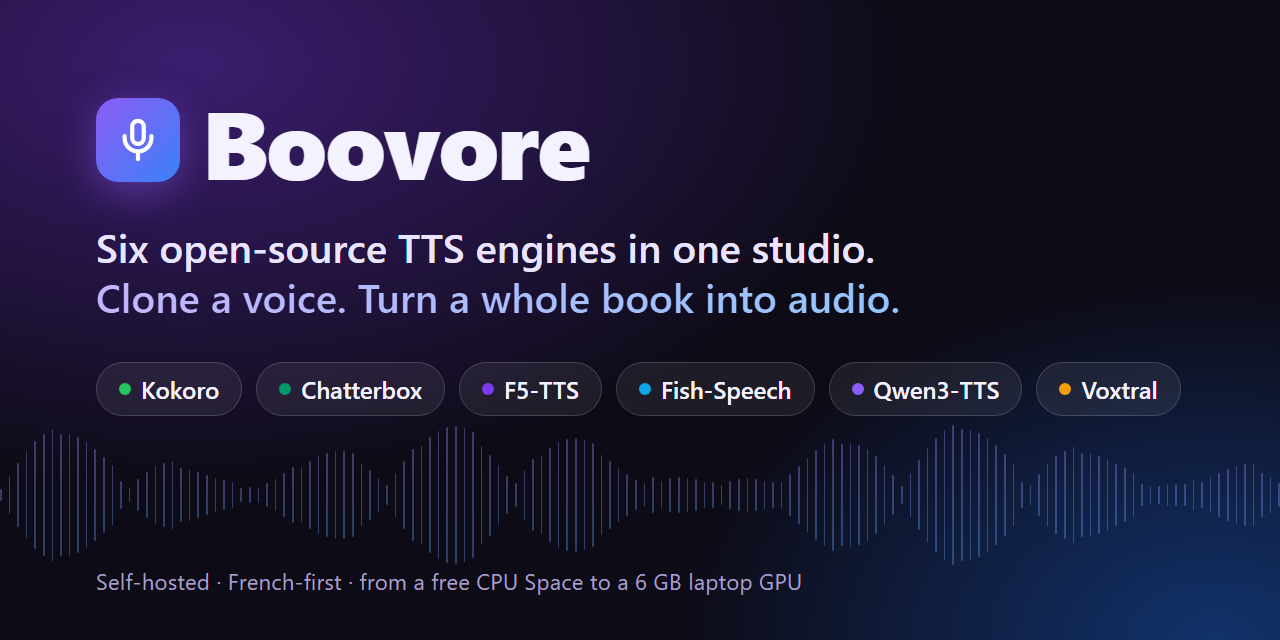
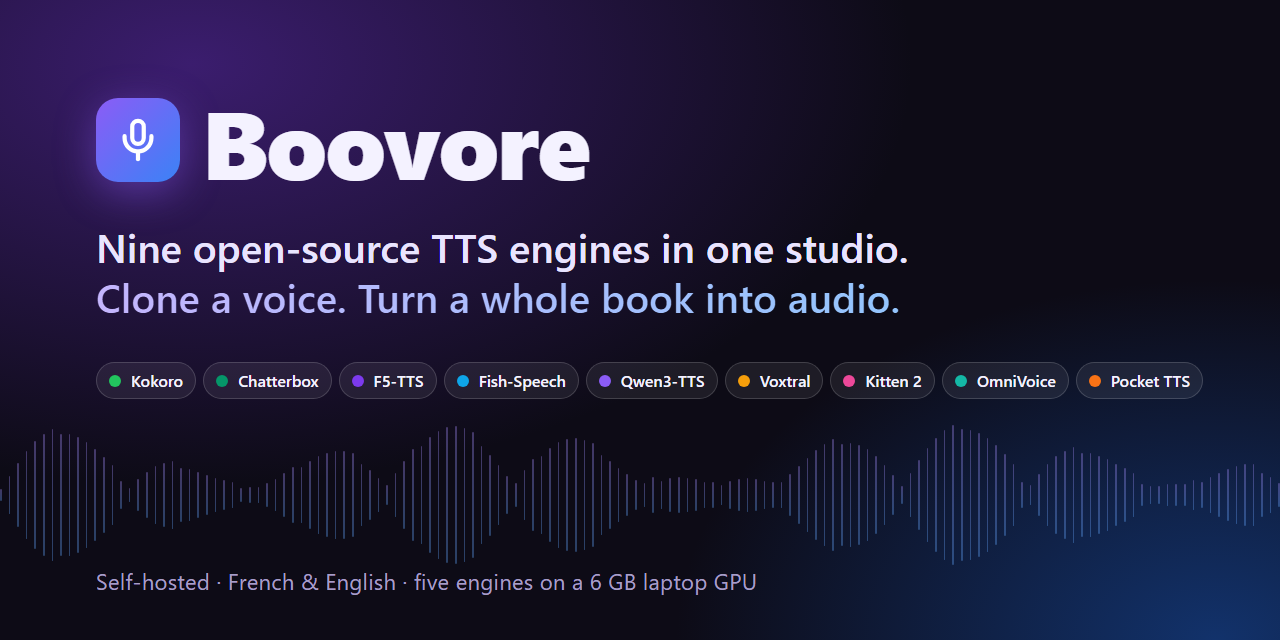
docs: nine engines, five on a 6 GB laptop, licenses and NOTICE
- engines table: Kitten TTS 2, OmniVoice, Pocket TTS with weights licenses
- Windows laptop section: Kokoro + Pocket in the venv, Kitten and OmniVoice
  setup scripts, how Qwen3 and OmniVoice share the GPU
- settings for the new servers, API rows, project layout
- fix the Qwen3 curl example: /generate answers JSON (audio_b64), not WAV
- NOTICE: Stellon Labs attribution (Kitten), CC-BY-NC (OmniVoice),
  CC-BY-4.0 (Pocket TTS); banner with nine engines

Changed region(s): [[0.0625, 0.5625, 0.9375, 0.625], [0.0625, 0.3438, 0.7188, 0.4375], [0.2188, 0.875, 0.625, 0.9375]]

diff --git a/.github/README.md b/.github/README.md
@@ -1,5 +1,5 @@
 <p align="center">
-  <img src="banner.png" alt="Boovore — six open-source TTS engines in one studio" width="100%">
+  <img src="banner.png" alt="Boovore — nine open-source TTS engines in one studio" width="100%">
 </p>
 
 <p align="center">
@@ -14,7 +14,7 @@
   <b>English</b> · <a href="../README.fr.md">Français</a>
 </p>
 
-**Boovore** is a self-hosted text-to-speech studio. It puts six open-source TTS engines behind one web page, so you can hear the same sentence in every engine, clone a voice from a short clip, and turn a `.txt`, `.pdf` or `.epub` into a chaptered audiobook.
+**Boovore** is a self-hosted text-to-speech studio. It puts nine open-source TTS engines behind one web page, so you can hear the same sentence in every engine, clone a voice from a short clip, and turn a `.txt`, `.pdf` or `.epub` into a chaptered audiobook.
 
 It is French-first (good French voices are hard to find in open-source TTS) and runs on whatever you have: a free CPU Space, a 6 GB laptop GPU, or a 24 GB server.
 
@@ -26,10 +26,10 @@ It is French-first (good French voices are hard to find in open-source TTS) and 
 
 ## Why Boovore?
 
-- **Compare engines in one click.** Same text, same page, six engines. You find the right voice by listening instead of installing six repos.
+- **Compare engines in one click.** Same text, same page, nine engines. You find the right voice by listening instead of installing nine repos.
 - **Books, not just sentences.** Import a `.txt`, `.pdf` or `.epub`, let Boovore detect the chapters, generate them in batch, then download each chapter or merge everything into one WAV.
-- **Voice cloning and voice design.** Clone a voice from a few seconds of audio (Chatterbox, F5-TTS, Fish-Speech, Qwen3, Voxtral), or describe a voice in words and let Qwen3 Voice Design create it.
-- **Runs on modest hardware.** The `ENABLED_ENGINES` switch loads only what your machine can hold. Qwen3 runs on a 6 GB RTX 2060 laptop.
+- **Voice cloning and voice design.** Clone a voice from a few seconds of audio (OmniVoice, Chatterbox, F5-TTS, Fish-Speech, Qwen3, Voxtral, Kitten), describe a voice and let Qwen3 Voice Design or OmniVoice create it, or add a sigh or a laugh with Kitten's emotion tags.
+- **Runs on modest hardware.** The `ENABLED_ENGINES` switch loads only what your machine can hold. A 6 GB RTX 2060 laptop runs five engines: Qwen3 and OmniVoice take turns on the GPU, Kokoro, Pocket TTS and Kitten use the CPU.
 - **One plain web page.** The UI is a single HTML file in vanilla JS with no build step, and the backend is a single FastAPI file with a documented HTTP API.
 
 ## Engines
@@ -42,6 +42,9 @@ It is French-first (good French voices are hard to find in open-source TTS) and 
 | **[Fish-Speech 1.5](https://github.com/fishaudio/fish-speech)** | Multilingual cloning | ✅ | CC-BY-NC-SA-4.0 | ❌ |
 | **[Qwen3-TTS](https://huggingface.co/Qwen/Qwen3-TTS-12Hz-1.7B-Base)** 0.6B / 1.7B | Three modes (clone, built-in speakers, **Voice Design** from a text description), streaming with CUDA graphs | ✅ | Apache-2.0 | ✅ |
 | **[Voxtral 4B](https://huggingface.co/mistralai/Voxtral-4B-TTS-2603)** (Mistral AI) | French-first cloning. In Mistral's own human evaluation, listeners preferred it over ElevenLabs Flash v2.5 in [68.4% of zero-shot cloning comparisons](https://mistral.ai/news/voxtral-tts/) | ✅ | CC-BY-NC-4.0 | ❌ |
+| **[Kitten TTS 2](https://huggingface.co/KittenML/kitten-tts-2)** (KittenML) | 47 voices and emotion tags (`[sad]`, `<sigh>`, `<laugh>`, `(((emphasis)))`); French through one built-in voice or cloning. Runs on CPU, but slowly (about 0.1× real time on a 6-core laptop) | ✅ | [Stellon Labs Community License](https://huggingface.co/KittenML/kitten-tts-2/blob/main/LICENSE.md) | ⚠ under US$1M revenue, after registering |
+| **[OmniVoice](https://huggingface.co/k2-fsa/OmniVoice)** (k2-fsa) | Best French scores on Hugging Face's Open TTS Leaderboard (4.7 % word errors, Oct 2026), #2 for English cloning; cloning and voice design (gender, age, pitch, accent). About 2 GB of VRAM | ✅ | CC-BY-NC | ❌ |
+| **[Pocket TTS](https://github.com/kyutai-labs/pocket-tts)** (Kyutai) | Fast on CPU: 2.3× real time in French on a 6-core laptop, one thread. 7 languages, 27 voices | ✅ (gated weights) | CC-BY-4.0 | ✅ |
 
 Boovore's own code is MIT. Each engine's **model weights** keep their own license (column above). Check it before you publish or sell audio.
 
@@ -62,7 +65,7 @@ docker run -p 7860:7860 -e ENABLED_ENGINES=kokoro,f5 boovore
 
 The first request to each engine downloads its model. Kokoro is fast on CPU. F5-TTS works but is slow there: about 3 minutes for one short sentence on a 6-core laptop CPU.
 
-### 3. GPU server (all six engines)
+### 3. GPU server (all engines)
 
 Tested on an RTX 3090 (24 GB) rented on Vast.ai, Python 3.12 with CUDA 12.8.
 
@@ -101,20 +104,32 @@ python3 voxtral_server.py            # --status / --stop
 python3 make_narrator_reference.py   # optional: build a narrator reference WAV with Qwen3
 ```
 
+**Kitten TTS 2 (optional).** It needs transformers 5.x while Qwen3-TTS pins 4.57, so it runs in its own environment as a small server on port 7862 that Boovore calls:
+
+```bash
+python3 -m venv /root/kitten-env
+/root/kitten-env/bin/pip install kittenml fastapi uvicorn python-multipart
+nohup /root/kitten-env/bin/python kitten_server.py >> kitten.log 2>&1 &   # KITTEN_DEVICE=cuda to use the GPU
+```
+
 Open the UI through an SSH tunnel: `ssh -p <PORT> root@<HOST> -L 7860:localhost:7860 -N`, then go to http://localhost:7860.
 
 </details>
 
-### 4. Windows laptop with a 6 GB GPU (Qwen3 only)
+### 4. Windows laptop with a 6 GB GPU (five engines)
 
-Create a `venv\` with PyTorch (CUDA) and `faster-qwen3-tts`, then double-click **`start_qwen3_local.bat`**. It opens http://localhost:7860 once the model is loaded. It was tested with Python 3.12, torch 2.7.1+cu118 and faster-qwen3-tts 0.2.4 on an RTX 2060 laptop.
+Create a `venv\` with PyTorch (CUDA), `faster-qwen3-tts`, `kokoro` and `pocket-tts`, then double-click **`start_qwen3_local.bat`**. It opens http://localhost:7860 once the model is loaded. It was tested with Python 3.12, torch 2.7.1+cu118 and faster-qwen3-tts 0.2.4 on an RTX 2060 laptop.
+
+To add Kitten TTS 2, run **`setup_kitten.bat`** once. It builds a separate environment in `%LOCALAPPDATA%\boovore\kitten-env` (outside the project folder, so cloud sync skips 1.5 GB). After that, `start_qwen3_local.bat` also starts Kitten on the CPU, leaving the GPU to Qwen3. Kitten opens in its own minimized window: close it too when you stop Boovore.
+
+To add OmniVoice, run **`setup_omnivoice.bat`** once (or, if OmniVoice is already installed elsewhere, put `set OMNIVOICE_ENV=<that venv>` in a `local_env.bat` next to the launchers). OmniVoice then starts in its own window too. Qwen3 and OmniVoice take turns on the GPU: when OmniVoice needs room, Boovore unloads Qwen3; when you press **Load** for Qwen3, OmniVoice gives the card back. They never run on the GPU at the same time.
 
 <details>
 <summary><b>What the launcher sets, and why</b></summary>
 
 | Variable | Value | Why |
 |---|---|---|
-| `ENABLED_ENGINES` | `qwen3` | Only Qwen3 is installed in the local venv |
+| `ENABLED_ENGINES` | `qwen3,kokoro,pocket`, plus `kitten` and `omnivoice` once their setup has run | Qwen3, Kokoro and Pocket live in the local venv; Kitten and OmniVoice run in their own environments |
 | `MODEL_CACHE_SIZE` | `1` | 6 GB holds one 1.7B model (about 4.5 GB peak). Loading another one unloads it and frees the VRAM |
 | `TRANSCRIBE_DEVICE` | `off` | The reference-clip transcriber does not fit next to a 1.7B model |
 | `QWEN3_DTYPE` | `auto` | bf16 on Ampere and newer. On Turing (RTX 20xx, T4): fp16 for 1.7B and bf16 for 0.6B, because 0.6B overflows in fp16 |
@@ -129,10 +144,16 @@ Measured on an RTX 2060 laptop: French output was word-exact (checked by speech 
 |---|---|---|
 | `kokoro,f5` | CPU (e.g. free HF Space) | Kokoro, F5-TTS |
 | `kokoro,f5,chatterbox` | GPU with about 6 GB (e.g. T4) | + Chatterbox |
-| `qwen3` | 6 GB laptop GPU | Qwen3-TTS |
-| `all` (default) | 24 GB GPU (RTX 3090, A10G, A100) | Everything (Voxtral also needs its own server) |
+| `qwen3,omnivoice,kokoro,pocket,kitten` | 6 GB laptop GPU | Qwen3 and OmniVoice take turns on the GPU; Kokoro, Pocket and Kitten on the CPU |
+| `all` (default) | 24 GB GPU (RTX 3090, A10G, A100) | Everything (Voxtral, Kitten and OmniVoice also need their own server) |
 
-Other settings: `ACTIVE_MODELS` (comma-separated list of the Qwen3 models offered in the UI), `MODEL_CACHE_SIZE` (Qwen3 models kept in memory, default 2), `VOXTRAL_URL` (default `http://localhost:8000`).
+Other settings: `ACTIVE_MODELS` (comma-separated list of the Qwen3 models offered in the UI), `MODEL_CACHE_SIZE` (Qwen3 models kept in memory, default 2), `VOXTRAL_URL` (default `http://localhost:8000`), `KITTEN_URL` (default `http://127.0.0.1:7862`), `KITTEN_TIMEOUT` (seconds, default 3600).
+
+Kitten server (`kitten_server.py`): `KITTEN_PORT` (7862), `KITTEN_HOST` (127.0.0.1), `KITTEN_DEVICE` (`cpu` or `cuda`), `KITTEN_WEIGHTS` (`packed` by default, `emb4` halves the download, `full`), `KITTEN_DECODER` (`default` or the smaller `student_w4`), `KITTEN_WHISPER=1` to transcribe reference clips with Whisper large-v3 (about 3 GB) when no transcript is given.
+
+OmniVoice: `OMNIVOICE_URL` on the Boovore side (default `http://127.0.0.1:7863`) and `OMNIVOICE_TIMEOUT` (seconds, default 1800); on its server, `OMNIVOICE_PORT` (7863), `OMNIVOICE_HOST` (127.0.0.1) and `OMNIVOICE_ASR=1` to transcribe reference clips with Whisper large-v3 turbo (about 1.6 GB) when no transcript is given. It loads on the GPU when at least 3 GB are free, otherwise on the CPU.
+
+Pocket TTS: `POCKET_THREADS` sets the CPU threads while Pocket generates (unset by default; on a 6-core laptop, 2 threads gave 2.7× real time, 6 threads 2.0×).
 
 ## HTTP API
 
@@ -145,9 +166,17 @@ curl -X POST http://localhost:7860/generate/kokoro_fr \
 
 # Qwen3 Voice Design: describe the voice instead of cloning it
 curl -X POST http://localhost:7860/load -F "model_id=Qwen/Qwen3-TTS-12Hz-1.7B-VoiceDesign"
+# /generate (Qwen3) answers JSON with the WAV in base64, plus timing metrics
 curl -X POST http://localhost:7860/generate -F "mode=voice_design" -F "language=French" \
      -F "instruct=A calm, deep male narrator, warm and slow." \
-     -F "text=La nuit tombait lentement sur la plaine." -o narrateur.wav
+     -F "text=La nuit tombait lentement sur la plaine." \
+  | python -c "import sys, json, base64; open('narrateur.wav', 'wb').write(base64.b64decode(json.load(sys.stdin)['audio_b64']))"
+
+# OmniVoice voice design and Pocket TTS answer a WAV directly
+curl -X POST http://localhost:7860/generate/omnivoice -F "language=English" \
+     -F "instruct=Male, Elderly, Low Pitch, British Accent" -F "text=The night was falling." -o elder.wav
+curl -X POST http://localhost:7860/generate/pocket -F "language=french" -F "voice=estelle" \
+     -F "text=Bonjour, je suis Boovore." -o estelle.wav
 ```
 
 | Endpoint | What it does |
@@ -160,6 +189,11 @@ curl -X POST http://localhost:7860/generate -F "mode=voice_design" -F "language=
 | `POST /generate/chatterbox` | Chatterbox (`ref_wav`, `exaggeration`) |
 | `POST /generate/fish` | Fish-Speech |
 | `POST /generate/voxtral` | Voxtral (proxied to vLLM-Omni) |
+| `POST /generate/kitten` | Kitten TTS 2 (`voice`, `ref_wav` + `ref_text`, `preset`, `normalize`, `seed`; proxied to `kitten_server.py`) |
+| `GET /kitten/status` | Kitten voices and load state |
+| `POST /generate/omnivoice` | OmniVoice (`language`, `ref_wav` + `ref_text`, or `instruct`; `speed`, `seed`; proxied to `omnivoice_server.py`) |
+| `GET /omnivoice/status` | OmniVoice load state and device |
+| `POST /generate/pocket` | Pocket TTS (`language`, `voice`, optional `ref_wav`) |
 | `POST /transcribe` | Transcribe a reference clip (nano-parakeet) |
 
 ## Project layout
@@ -169,7 +203,13 @@ server.py                    FastAPI backend: all engines, model cache, HTTP API
 index.html                   The whole UI (studio + audiobook), vanilla JS
 voxtral_server.py            Start / stop / check the Voxtral vLLM-Omni server
 make_narrator_reference.py   Build a narrator reference WAV with Qwen3 Voice Design
-start_qwen3_local.bat        Windows launcher for 6 GB GPUs
+kitten_server.py             Kitten TTS 2 server (own environment, port 7862)
+setup_kitten.bat             Builds the Kitten environment on Windows
+start_kitten.bat             Starts the Kitten server on Windows
+omnivoice_server.py          OmniVoice server (own environment, port 7863, shares the GPU with Qwen3)
+setup_omnivoice.bat          Builds the OmniVoice environment on Windows
+start_omnivoice.bat          Starts the OmniVoice server on Windows
+start_qwen3_local.bat        Windows launcher for 6 GB GPUs (also starts Kitten if installed)
 xtts_server.py               Optional fine-tuned XTTS French narrator (port 7861)
 Dockerfile                   CPU image used by the Hugging Face Space
 ```
@@ -186,11 +226,11 @@ For a larger change, open an issue first so we can agree on the approach.
 
 ## Credits
 
-Boovore started as a fork of the web demo of **[faster-qwen3-tts](https://github.com/andimarafioti/faster-qwen3-tts)** by Andres Marafioti, whose CUDA-graph Qwen3 engine powers the streaming mode. The other engines are by [Resemble AI](https://github.com/resemble-ai/chatterbox), [SWivid](https://github.com/SWivid/F5-TTS) and [RASPIAUDIO](https://huggingface.co/RASPIAUDIO/F5-French-MixedSpeakers-reduced), [fishaudio](https://github.com/fishaudio/fish-speech), [hexgrad](https://github.com/hexgrad/kokoro), the [Qwen team](https://huggingface.co/Qwen) and [Mistral AI](https://mistral.ai/news/voxtral-tts/). The French prosody preprocessing is inspired by [arXiv:2508.17494](https://arxiv.org/abs/2508.17494).
+Boovore started as a fork of the web demo of **[faster-qwen3-tts](https://github.com/andimarafioti/faster-qwen3-tts)** by Andres Marafioti, whose CUDA-graph Qwen3 engine powers the streaming mode. The other engines are by [Resemble AI](https://github.com/resemble-ai/chatterbox), [SWivid](https://github.com/SWivid/F5-TTS) and [RASPIAUDIO](https://huggingface.co/RASPIAUDIO/F5-French-MixedSpeakers-reduced), [fishaudio](https://github.com/fishaudio/fish-speech), [hexgrad](https://github.com/hexgrad/kokoro), the [Qwen team](https://huggingface.co/Qwen), [Mistral AI](https://mistral.ai/news/voxtral-tts/) and [KittenML](https://github.com/KittenML/KittenTTS), [k2-fsa](https://github.com/k2-fsa/OmniVoice) and [Kyutai](https://github.com/kyutai-labs/pocket-tts). Kitten TTS 2 is **Powered by Stellon Labs**. The French prosody preprocessing is inspired by [arXiv:2508.17494](https://arxiv.org/abs/2508.17494).
 
 ## License
 
-The code is released under the [MIT license](../LICENSE). Model weights are licensed separately; see the [engines table](#engines).
+The code is released under the [MIT license](../LICENSE). Model weights are licensed separately; see the [engines table](#engines) and [NOTICE](../NOTICE).
 
 ---
 

diff --git a/README.fr.md b/README.fr.md
@@ -1,5 +1,5 @@
 <p align="center">
-  <img src=".github/banner.png" alt="Boovore — six moteurs de synthèse vocale open source dans un seul studio" width="100%">
+  <img src=".github/banner.png" alt="Boovore — neuf moteurs de synthèse vocale open source dans un seul studio" width="100%">
 </p>
 
 <p align="center">
@@ -13,7 +13,7 @@
   <a href="https://github.com/Foradc/Boovore-tts#readme">English</a> · <b>Français</b>
 </p>
 
-**Boovore** est un studio de synthèse vocale (TTS) à héberger soi-même. Il réunit six moteurs open source derrière une seule page web : on écoute la même phrase dans chaque moteur, on clone une voix à partir d'un court extrait, et on transforme un `.txt`, un `.pdf` ou un `.epub` en livre audio découpé en chapitres.
+**Boovore** est un studio de synthèse vocale (TTS) à héberger soi-même. Il réunit neuf moteurs open source derrière une seule page web : on écoute la même phrase dans chaque moteur, on clone une voix à partir d'un court extrait, et on transforme un `.txt`, un `.pdf` ou un `.epub` en livre audio découpé en chapitres.
 
 Il est pensé d'abord pour le français, parce que les bonnes voix françaises sont rares en TTS open source. Il tourne sur la machine dont vous disposez : un Space CPU gratuit, un portable avec 6 Go de VRAM ou un serveur à 24 Go.
 
@@ -25,10 +25,10 @@ Il est pensé d'abord pour le français, parce que les bonnes voix françaises s
 
 ## Pourquoi Boovore ?
 
-- **Comparer les moteurs en un clic.** Même texte, même page, six moteurs. On choisit sa voix à l'oreille, sans installer six dépôts.
+- **Comparer les moteurs en un clic.** Même texte, même page, neuf moteurs. On choisit sa voix à l'oreille, sans installer neuf dépôts.
 - **Des livres entiers.** Importez un `.txt`, un `.pdf` ou un `.epub`. Boovore détecte les chapitres, les génère en lot, puis vous téléchargez chaque chapitre ou un seul WAV fusionné.
-- **Clonage et création de voix.** Clonez une voix à partir de quelques secondes d'audio (Chatterbox, F5-TTS, Fish-Speech, Qwen3, Voxtral), ou décrivez une voix avec des mots et laissez Qwen3 Voice Design la créer.
-- **Du matériel modeste suffit.** La variable `ENABLED_ENGINES` ne charge que ce que votre machine peut tenir. Qwen3 tourne sur un portable avec une RTX 2060 de 6 Go.
+- **Clonage et création de voix.** Clonez une voix à partir de quelques secondes d'audio (OmniVoice, Chatterbox, F5-TTS, Fish-Speech, Qwen3, Voxtral, Kitten), décrivez une voix et laissez Qwen3 Voice Design ou OmniVoice la créer, ou ajoutez un soupir ou un rire avec les balises d'émotion de Kitten.
+- **Du matériel modeste suffit.** La variable `ENABLED_ENGINES` ne charge que ce que votre machine peut tenir. Un portable avec une RTX 2060 de 6 Go fait tourner cinq moteurs : Qwen3 et OmniVoice se relaient sur la carte graphique, Kokoro, Pocket TTS et Kitten utilisent le processeur.
 - **Une simple page web.** L'interface tient dans un seul fichier HTML (JavaScript sans framework, sans compilation), et le serveur dans un seul fichier FastAPI avec une API HTTP documentée.
 
 ## Les moteurs
@@ -41,6 +41,9 @@ Il est pensé d'abord pour le français, parce que les bonnes voix françaises s
 | **[Fish-Speech 1.5](https://github.com/fishaudio/fish-speech)** | Clonage multilingue | ✅ | CC-BY-NC-SA-4.0 | ❌ |
 | **[Qwen3-TTS](https://huggingface.co/Qwen/Qwen3-TTS-12Hz-1.7B-Base)** 0.6B / 1.7B | Trois modes (clonage, voix intégrées, **Voice Design** à partir d'une description), diffusion en continu avec CUDA graphs | ✅ | Apache-2.0 | ✅ |
 | **[Voxtral 4B](https://huggingface.co/mistralai/Voxtral-4B-TTS-2603)** (Mistral AI) | Clonage pensé pour le français. Dans l'évaluation humaine publiée par Mistral, les auditeurs l'ont préféré à ElevenLabs Flash v2.5 dans [68,4 % des comparaisons en clonage](https://mistral.ai/fr/news/voxtral-tts) | ✅ | CC-BY-NC-4.0 | ❌ |
+| **[Kitten TTS 2](https://huggingface.co/KittenML/kitten-tts-2)** (KittenML) | 47 voix et balises d'émotion (`[sad]`, `<sigh>`, `<laugh>`, `(((insistance)))`) ; le français passe par une voix intégrée ou le clonage. Tourne sur CPU, mais lentement (environ 0,1 fois le temps réel sur un portable 6 cœurs) | ✅ | [Stellon Labs Community License](https://huggingface.co/KittenML/kitten-tts-2/blob/main/LICENSE.md) | ⚠ sous 1 M$ de chiffre d'affaires, après inscription |
+| **[OmniVoice](https://huggingface.co/k2-fsa/OmniVoice)** (k2-fsa) | Meilleur score en français sur l'Open TTS Leaderboard de Hugging Face (4,7 % de mots erronés, octobre 2026), n°2 en clonage anglais ; clonage et création de voix (genre, âge, hauteur, accent). Environ 2 Go de carte graphique | ✅ | CC-BY-NC | ❌ |
+| **[Pocket TTS](https://github.com/kyutai-labs/pocket-tts)** (Kyutai) | Rapide sur processeur : 2,3 fois le temps réel en français sur un portable 6 cœurs, un seul thread. 7 langues, 27 voix | ✅ (poids à accès restreint) | CC-BY-4.0 | ✅ |
 
 Le code de Boovore est sous licence MIT. Les **poids** de chaque modèle gardent leur propre licence (colonne ci-dessus) : vérifiez-la avant de publier ou de vendre un enregistrement.
 
@@ -61,13 +64,17 @@ docker run -p 7860:7860 -e ENABLED_ENGINES=kokoro,f5 boovore
 
 La première requête à chaque moteur télécharge son modèle. Kokoro est rapide sur CPU. F5-TTS fonctionne mais y est lent : environ 3 minutes pour une phrase courte sur le processeur 6 cœurs d'un portable.
 
-### 3. Serveur GPU (les six moteurs)
+### 3. Serveur GPU (tous les moteurs)
 
-Testé sur une RTX 3090 (24 Go) louée sur Vast.ai, avec Python 3.12 et CUDA 12.8. Les commandes d'installation sont dans la [version anglaise](https://github.com/Foradc/Boovore-tts#3-gpu-server-all-six-engines).
+Testé sur une RTX 3090 (24 Go) louée sur Vast.ai, avec Python 3.12 et CUDA 12.8. Les commandes d'installation sont dans la [version anglaise](https://github.com/Foradc/Boovore-tts#3-gpu-server-all-engines).
 
-### 4. Portable Windows avec 6 Go de VRAM (Qwen3 seul)
+### 4. Portable Windows avec 6 Go de VRAM (cinq moteurs)
 
-Créez un `venv\` avec PyTorch (CUDA) et `faster-qwen3-tts`, puis double-cliquez sur **`start_qwen3_local.bat`**. Le navigateur s'ouvre sur http://localhost:7860 dès que le modèle est chargé. Testé avec Python 3.12, torch 2.7.1+cu118 et faster-qwen3-tts 0.2.4 sur un portable équipé d'une RTX 2060.
+Créez un `venv\` avec PyTorch (CUDA), `faster-qwen3-tts`, `kokoro` et `pocket-tts`, puis double-cliquez sur **`start_qwen3_local.bat`**. Le navigateur s'ouvre sur http://localhost:7860 dès que le modèle est chargé. Testé avec Python 3.12, torch 2.7.1+cu118 et faster-qwen3-tts 0.2.4 sur un portable équipé d'une RTX 2060.
+
+Pour ajouter Kitten TTS 2, lancez une fois **`setup_kitten.bat`**. Il crée un environnement séparé dans `%LOCALAPPDATA%\boovore\kitten-env` (hors du dossier du projet, pour ne pas synchroniser 1,5 Go). Ensuite, `start_qwen3_local.bat` démarre aussi Kitten sur le processeur et laisse la carte graphique à Qwen3. Kitten s'ouvre dans sa propre fenêtre réduite : fermez-la aussi quand vous arrêtez Boovore.
+
+Pour ajouter OmniVoice, lancez une fois **`setup_omnivoice.bat`** (ou, s'il est déjà installé ailleurs, mettez `set OMNIVOICE_ENV=<ce venv>` dans un fichier `local_env.bat` à côté des lanceurs). Qwen3 et OmniVoice se relaient sur la carte graphique : quand OmniVoice manque de place, Boovore décharge Qwen3 ; quand vous cliquez sur **Load** pour Qwen3, OmniVoice rend la carte. Ils ne tournent jamais ensemble sur la carte.
 
 Mesure sur ce portable : le français sort mot pour mot (vérifié par reconnaissance vocale), mais à seulement 0,1 à 0,5 fois le temps réel, parce que la carte ralentit quand elle chauffe. Pour un livre entier, prenez une carte de bureau ou une carte louée.
 
@@ -77,8 +84,8 @@ Mesure sur ce portable : le français sort mot pour mot (vérifié par reconnais
 |---|---|---|
 | `kokoro,f5` | CPU (par exemple le Space gratuit) | Kokoro, F5-TTS |
 | `kokoro,f5,chatterbox` | GPU d'environ 6 Go (par exemple T4) | + Chatterbox |
-| `qwen3` | Portable avec 6 Go de VRAM | Qwen3-TTS |
-| `all` (par défaut) | GPU de 24 Go (RTX 3090, A10G, A100) | Tous (Voxtral demande aussi son propre serveur) |
+| `qwen3,omnivoice,kokoro,pocket,kitten` | Portable avec 6 Go de VRAM | Qwen3 et OmniVoice se relaient sur la carte graphique ; Kokoro, Pocket et Kitten sur le processeur |
+| `all` (par défaut) | GPU de 24 Go (RTX 3090, A10G, A100) | Tous (Voxtral, Kitten et OmniVoice demandent aussi leur propre serveur) |
 
 ## API HTTP
 
@@ -91,9 +98,15 @@ curl -X POST http://localhost:7860/generate/kokoro_fr \
 
 # Qwen3 Voice Design : on décrit la voix au lieu de la cloner
 curl -X POST http://localhost:7860/load -F "model_id=Qwen/Qwen3-TTS-12Hz-1.7B-VoiceDesign"
+# /generate (Qwen3) renvoie du JSON avec le WAV en base64
 curl -X POST http://localhost:7860/generate -F "mode=voice_design" -F "language=French" \
      -F "instruct=A calm, deep male narrator, warm and slow." \
-     -F "text=La nuit tombait lentement sur la plaine." -o narrateur.wav
+     -F "text=La nuit tombait lentement sur la plaine." \
+  | python -c "import sys, json, base64; open('narrateur.wav', 'wb').write(base64.b64decode(json.load(sys.stdin)['audio_b64']))"
+
+# Pocket TTS renvoie directement un WAV
+curl -X POST http://localhost:7860/generate/pocket -F "language=french" -F "voice=estelle" \
+     -F "text=Bonjour, je suis Boovore." -o estelle.wav
 ```
 
 La liste complète des points d'entrée est dans la [version anglaise](https://github.com/Foradc/Boovore-tts#http-api).
@@ -110,11 +123,11 @@ Pour un changement important, ouvrez d'abord un ticket pour qu'on se mette d'acc
 
 ## Remerciements
 
-Boovore est parti d'un fork de la démo web de **[faster-qwen3-tts](https://github.com/andimarafioti/faster-qwen3-tts)** d'Andres Marafioti, dont le moteur Qwen3 à CUDA graphs fait tourner le mode en continu. Les autres moteurs viennent de [Resemble AI](https://github.com/resemble-ai/chatterbox), [SWivid](https://github.com/SWivid/F5-TTS) et [RASPIAUDIO](https://huggingface.co/RASPIAUDIO/F5-French-MixedSpeakers-reduced), [fishaudio](https://github.com/fishaudio/fish-speech), [hexgrad](https://github.com/hexgrad/kokoro), l'[équipe Qwen](https://huggingface.co/Qwen) et [Mistral AI](https://mistral.ai/fr/news/voxtral-tts). Le prétraitement de la prosodie française s'inspire de [arXiv:2508.17494](https://arxiv.org/abs/2508.17494).
+Boovore est parti d'un fork de la démo web de **[faster-qwen3-tts](https://github.com/andimarafioti/faster-qwen3-tts)** d'Andres Marafioti, dont le moteur Qwen3 à CUDA graphs fait tourner le mode en continu. Les autres moteurs viennent de [Resemble AI](https://github.com/resemble-ai/chatterbox), [SWivid](https://github.com/SWivid/F5-TTS) et [RASPIAUDIO](https://huggingface.co/RASPIAUDIO/F5-French-MixedSpeakers-reduced), [fishaudio](https://github.com/fishaudio/fish-speech), [hexgrad](https://github.com/hexgrad/kokoro), l'[équipe Qwen](https://huggingface.co/Qwen), [Mistral AI](https://mistral.ai/fr/news/voxtral-tts) et [KittenML](https://github.com/KittenML/KittenTTS), [k2-fsa](https://github.com/k2-fsa/OmniVoice) et [Kyutai](https://github.com/kyutai-labs/pocket-tts). Kitten TTS 2 est **Powered by Stellon Labs**. Le prétraitement de la prosodie française s'inspire de [arXiv:2508.17494](https://arxiv.org/abs/2508.17494).
 
 ## Licence
 
-Le code est publié sous [licence MIT](LICENSE). Les poids des modèles ont leurs propres licences : voir le [tableau des moteurs](#les-moteurs).
+Le code est publié sous [licence MIT](LICENSE). Les poids des modèles ont leurs propres licences : voir le [tableau des moteurs](#les-moteurs) et le fichier [NOTICE](NOTICE).
 
 ---
 

diff --git a/README.md b/README.md
@@ -7,14 +7,14 @@ sdk: docker
 app_port: 7860
 pinned: false
 license: mit
-short_description: Six open-source TTS engines, voice cloning, audiobooks
+short_description: Nine open-source TTS engines, voice cloning, audiobooks
 ---
 
 <!-- This file is the Hugging Face Space card. GitHub shows .github/README.md instead. -->
 
 # 🎙 Boovore — Multi-Engine TTS Studio
 
-**Boovore** is a self-hosted text-to-speech studio. It puts six open-source TTS engines (Kokoro, Chatterbox, F5-TTS, Fish-Speech, Qwen3-TTS and Voxtral) behind one web page, so you can compare voices, clone a voice from a short clip, and turn a `.txt`, `.pdf` or `.epub` into a chaptered audiobook. French-first.
+**Boovore** is a self-hosted text-to-speech studio. It puts nine open-source TTS engines (Kokoro, Chatterbox, F5-TTS, Fish-Speech, Qwen3-TTS, Voxtral, Kitten TTS 2, OmniVoice and Pocket TTS) behind one web page, so you can compare voices, clone a voice from a short clip, and turn a `.txt`, `.pdf` or `.epub` into a chaptered audiobook. French-first.
 
 ![Boovore UI](screenshot.png)
 
